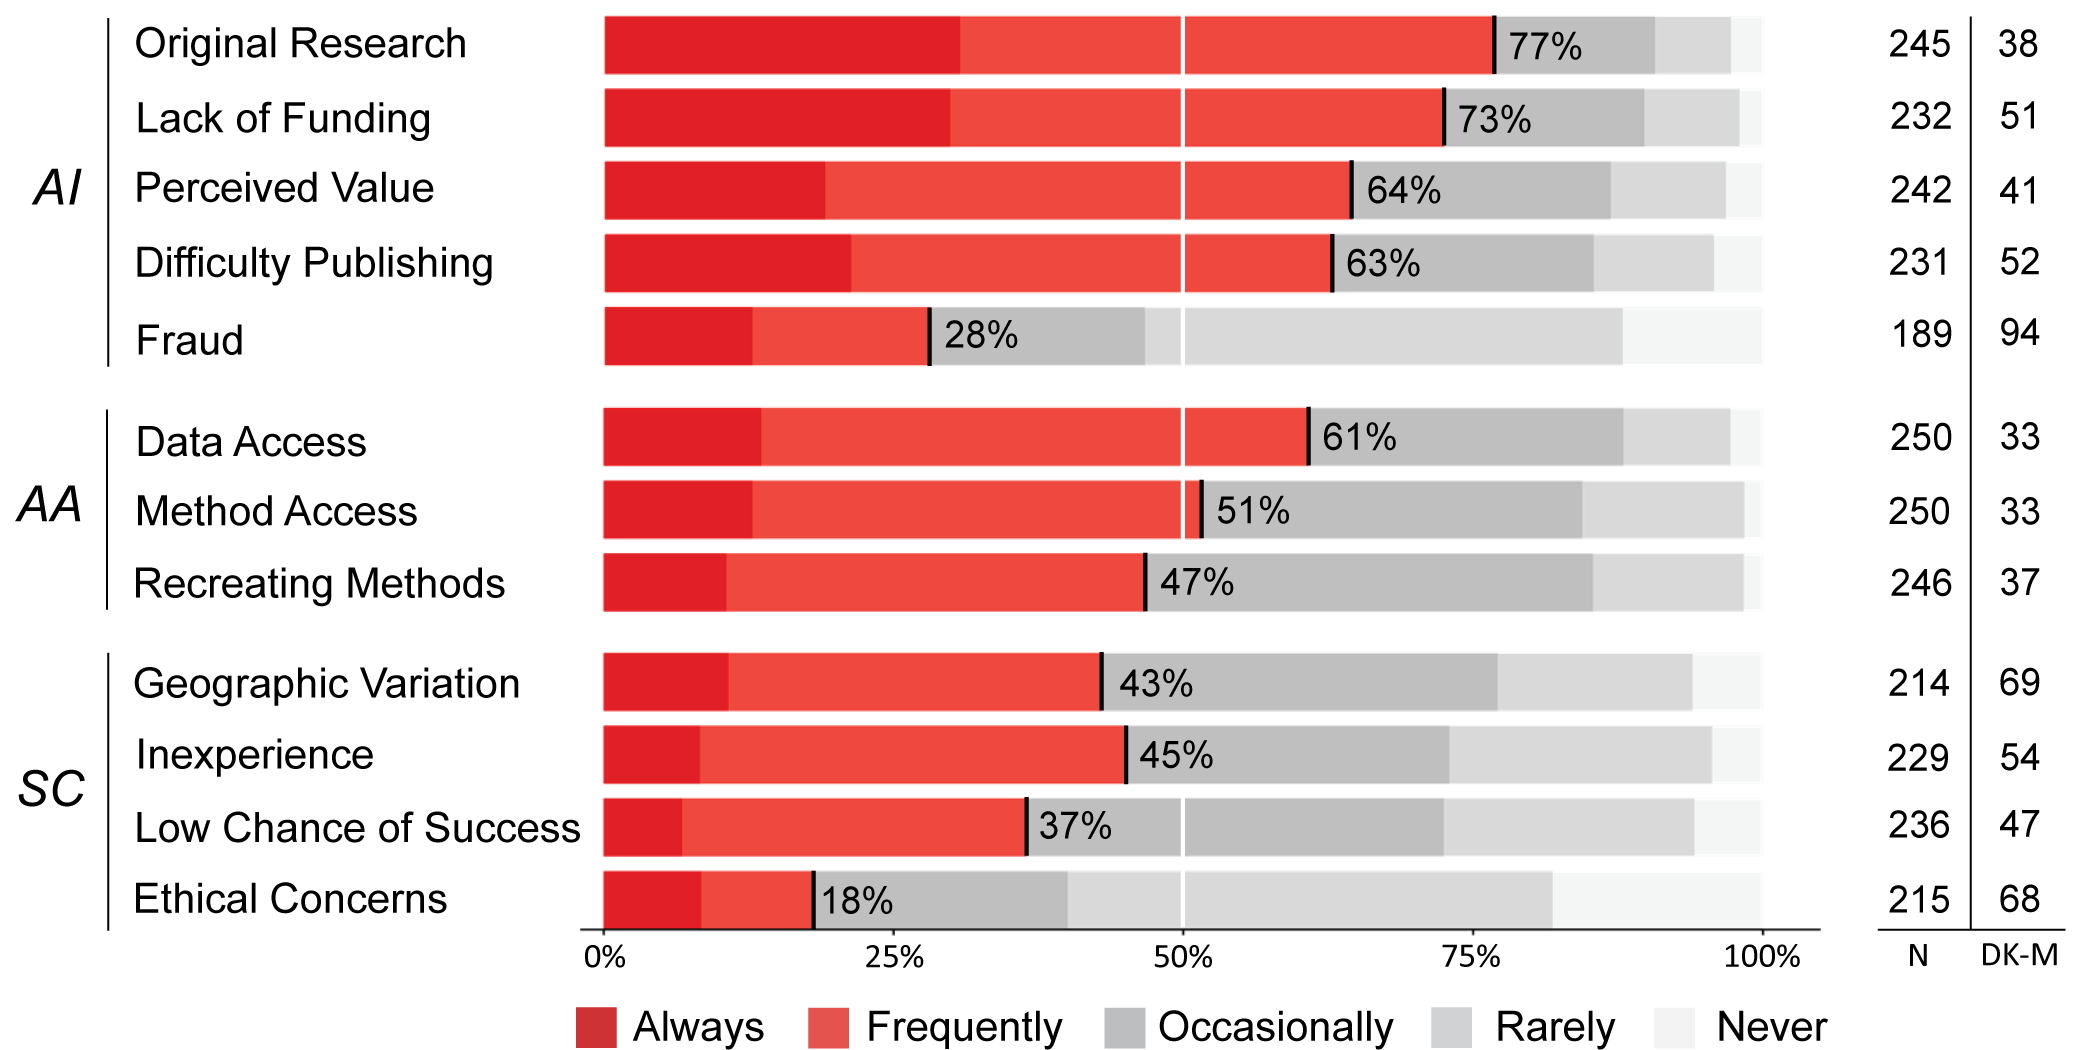
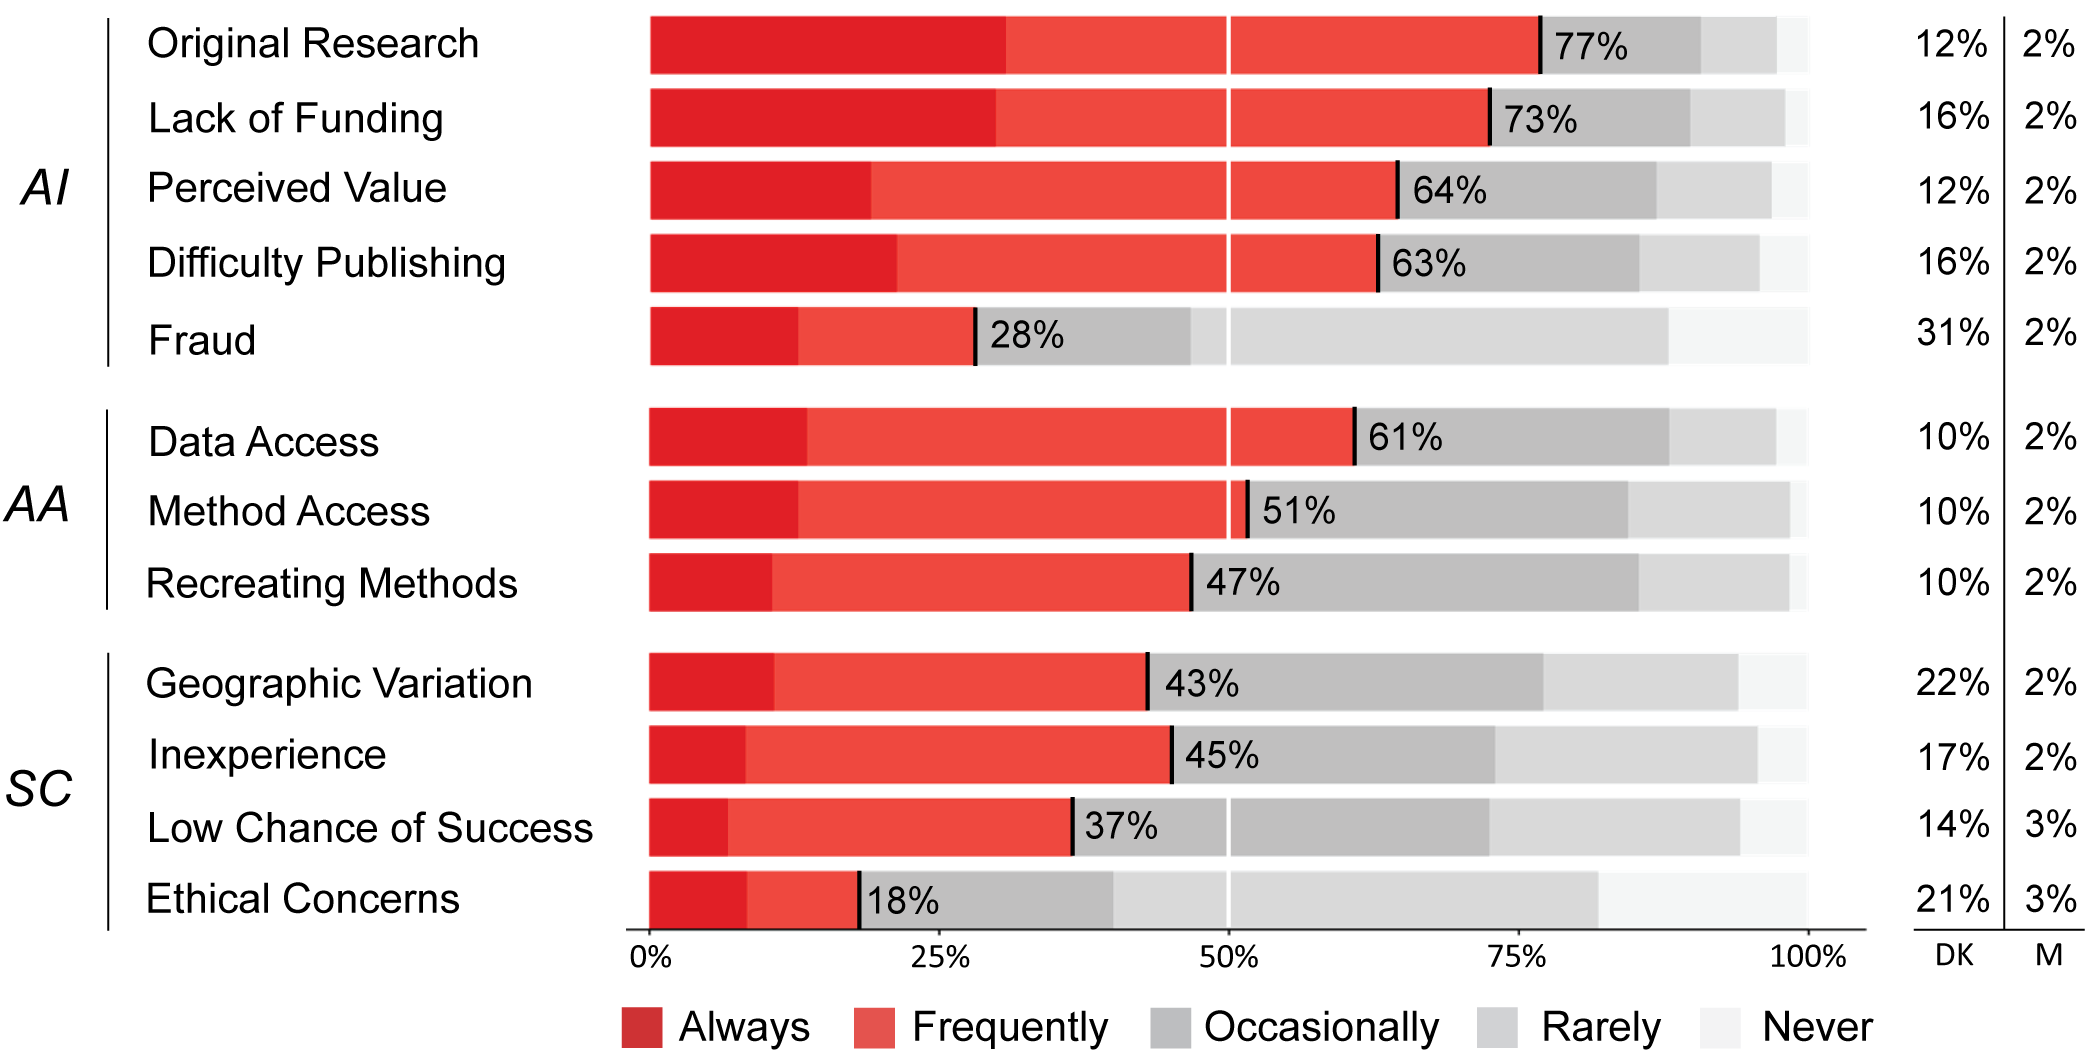
Update figs, correct in-text percent, results additions

diff --git a/docs/manuscript/manuscript.tex b/docs/manuscript/manuscript.tex
@@ -185,7 +185,7 @@ A majority of respondents believe replications can serve epistemic functions.
 \end{itemize}
 
 %%%%%%%%%%%%%%%%%%%%%%%%
-\subsection*{Replication - Chances and motivations}
+\subsection*{Factors Affecting the Chances of Replicating a Prior Study}
 Overall respondents believe that the majority of research in the discipline has not been independently replicated and appear to be uncertain about what proportion of the literature could or should be replicated (Figure \ref{fig:Q12-HCS}). 
 On average, respondents estimated that 25 percent of recent studies in their sub-field have be replicated. 
 However, the distribution of these responses is strongly right skewed.
@@ -200,28 +200,32 @@ respondents were uncertain whether it was possible or valuable to replicate rece
 
 Respondents identified a range of factors that might impact the chances of an independent researcher replicating the claims of a prior study (Figure \ref{fig:Q8-10-Chances}a).
 A majority of respondents identified the transparency and availability of the components of a study as affecting the odds of replication. 
-Poor documentation of the original study (75\%) and the use of restricted access data (68\%) were seen by the greatest number of respondents as decreasing the odds of replication. 
+Poor documentation of the original study (74.9\%) and the use of restricted access data (66.1\%) were seen by the greatest number of respondents as decreasing the odds of being able to replicate a prior result. 
 Some respondents identified the inclusion of multiple sites in a study as increasing the chances of an independent replication of the findings of that study, but not in great enough numbers to constitute a majority. 
 
 The characteristics of the research team that conducted the original study were generally not identified by respondents as likely to change the changes of replicating that study. 
-Respondents were nearly evenly split as to whether a large research team working on a study increased of decreased the chances of replicating that study. 
+The majority of respondents (51.2\%) indicated that a large research team working on the prior study would have no effect on the chances of an independent researcher replicating that work. 
+The remaining respondents were nearly evenly split as to whether a large team would increase of decrease the chances of replicating that study. 
 On the whole, more respondents believed that reliance on the unique expertise of the research team conducting a study, or the position adopted by that team would decrease, rather than increase, the chances of replicating the claims of a study.
-However, only 54 percent of respondents thought the position a research team chose to adopt when conducting study would decrease the chances of replicating that study. 
-Similarly, 49 percent of respondents identified reliance on the unique expertise of the original researcher team as decreasing the odds of replicating a study. 
+However, only 53.4 percent of respondents thought the position a research team chose to adopt when conducting study would decrease the chances of replicating that study. 
+Similarly, 48.8 percent of respondents identified reliance on the unique expertise of the original researcher team as decreasing the odds of replicating a study. 
+In both cases, 24 percent of respondents reported that they did not believe either factor would impact the odds of replicating a prior result.
 
+Respondents were similarly divided about the extend to which the approach adopted in the prior study would affect the chances of replicating that study. 
+Respondents were nearly evenly split as to whether the number of hypotheses tested by a study, and whether that study used qualitative or mixed methods would increase or decrease an independent researcher's chances of finding results that supported the claims of the prior study.
+About a quarter of respondents said that use of a mixed methods approach or the testing of multiple hypotheses had no effect on the chances of replication.
+In contrast, a large majority (80.6\%) of respondents identified the use of quantitative methods in a prior study as increasing the chances of replicating that study. 
+This result matches the association observed in respondent definitions of replication, which ties replication to positivist science and quantitative approaches to knowledge creation.   
+
+\begin{itemize}
+    \item Minimal variation in responses across method groups or sub-fields. 
+\end{itemize}
 
 \vspace{5mm}
 
-
-Researcher identified more study characteristics than phenomena characteristics, which may indicate they they are thinking of this through the lens of artifact availability from the prior study and not the nature of the phenomena. 
-A small but notable percentage of researchers indicated that they simply did not know whether a factor would affect chances of replication. 
-
-
-Only a subset of study characteristics were consistently identified by geographic researchers as altering the chances of replicating the claims of a prior study.
-\begin{itemize}
-    \item Agreement that quantitative studies are more likely to be replicable (80.6\%)
-    \item Minimal variation in responses across method groups or sub-fields. 
-\end{itemize}
+\begin{center}
+\textbf{Insert Figure \ref{fig:Q8-10-Chances} About Here}
+\end{center}
 
 Phenomena
 \begin{itemize}
@@ -232,10 +236,6 @@ Phenomena
     \item Really even distribution on nearly a phenomenon characteristics. Also a decently high percentage of i don't know resposnes for each characteristic. In most cases in the 10-20 percent range. 
 \end{itemize}
 
-
-\begin{center}
-\textbf{Insert Figure \ref{fig:Q8-10-Chances} About Here}
-\end{center}
 
 %%%%%%%%%%%%%%%%%%%%%%%%
 \subsection*{Factors that Affect the Decision to Attempt Replications}
@@ -248,31 +248,38 @@ Response characteristics for each factor are recorded at the right of the figure
 \end{center}
 
 Geographic researchers identified current academic incentives as the factor most frequently impacting the decision to attempt a replication study. 
-A majority of respondents identified the pressure to publish original research (77\%) and the lack of funding for replication studies (73\%) as frequently or always impacting the decision to attempt a replication.
-Respondents also believed that the perception of replications as low value work (64\%) that was often difficult to publish (63\%) also impacted decision making.  
+A majority of respondents identified the pressure to publish original research (66\%) and the lack of funding for replication studies (59\%) as frequently or always impacting the decision to attempt a replication.
+Respondents also believed that the perception of replications as low value work (55\%) that was often difficult to publish (51\%) also impacted decision making.  
 Contrary to some narratives in the replication literature, the desire to identify fabricated data or results was not seen as a determining factor in the decision to attempt a replication. 
 However, this finding should be interpreted with caution as a third of respondents indicated that they did not know whether potential fabrication influenced researcher decision making.  
 
 Respondents also identified the availability of research artifacts as important to the decision to attempt a replication study.
-Respondents believe that difficulty accessing and recreating data (61\%) frequently or always affects the replication decision.
-Similarly, a slight majority of respondents (51\%) identified the accessibility of procedural and methodological information as a influential factor. 
-The challenge of recreating the methods of a prior study elicited a similar response (47\%).
+Respondents believe that difficulty accessing and recreating data (54\%) frequently or always affects the replication decision.
+Similarly, respondents (45\%) identified the accessibility of procedural and methodological information as a influential factor. 
+The challenge of recreating the methods of a prior study elicited a similar response (41\%).
 
 No characteristics of the original study, or the potential replication attempt, were identified by a majority of researchers as frequently or always impacting the replication decision. 
-However, a near majority of respondents did identify potential geographic variation in the phenomena being investigated (43\%) and inexperience conducting replication studies (45\%) as influencing decisions to attempt replications. 
-Respondents did not see a low chance of successfully replicating a study as a deterrent to attempting a replication, but it is unclear whether this result is driven by a belief in the value of null replication results, or the belief that replications in fact have high chances of success.
+However, some respondents did identify inexperience conducting replication studies (37\%) and potential geographic variation in the phenomena being investigated (33\%) as always or frequently influencing decisions to attempt replications. 
+Moreover, many respondents also saw these factors as occasionally affecting the decision to attempt a replication.
+Few respondents see a low chance of successfully replicating a study as a deterrent to attempting a replication, but it is unclear whether this result is driven by a belief in the value of null replication results, or the belief that replications in fact have high chances of success.
 Finally, respondents did not identify ethical concerns as a factor affecting the decision to attempt a replication study. 
+However, several of these results should also be interpreted with caution. 
+More that 15 percent of respondents replied that they did not know whether geographic variation, inexperience with replication, or ethical concerns would affect a researcher's decision to attempt a replication. 
 
 Respondents identified a number of factors that were omitted from our survey instrument as important when deciding whether to attempt a replication of a geographic study. 
 These factors include practical issues such as the difficulty identifying and accessing new field sites where data would be collected during a replication attempt, the costs of conducting a replication, and the time needed to obtain institutional approvals.
-Respondents also identified uncertainty about how to compare the results of a replication attempt to the original as important to the replication decision.. 
-Finally, a small number of respondents believe that geographic researchers do not undertake replication studies because those researchers either believe replication is not possible or not necessary in geography. 
+Respondents also identified uncertainty about how to compare the results of a replication attempt to the original as important when deciding to undertake a replication attempt. 
+Finally, a small number of respondents believe that geographic researchers do not undertake replication studies because they either believe that replication is not possible or not necessary in geography. 
 These respondents argued that the main value of geographic studies is that each study provide a unique lens on the portion of the world under investigation, which makes replication a unnecessary endeavour.   
 
 Respondents from different disciplinary sub-fields and methodological approaches varied little in their identification of the factors affecting researchers' decisions to attempt replication studies. 
 Human geographers and researchers using quantitative methods less frequently identified academic incentives as important to the replication decision when compared to other sub-groups, but were otherwise broadly similar in their views on artifact availability and study characteristics. 
 A greater percentage of quantitative researchers and those working in the areas of GIScience and Methods identified the accessibility of data and methodological information as more often impacting the decision to replicate, but not at a level that was substantially higher than other sub-groups. 
 In fact, a greater percentage of researchers studying nature and society identified data accessibility as important than did methods researchers.  
+
+\begin{center}
+\textbf{Insert Table \ref{tab:motivations} About Here}
+\end{center}
 
 Overall, the differences we observed across sub-groups was small and should be interpreted with caution given the sub-group sample sizes.
 We also found that human geographers and qualitative researchers were disproportionately likely to provide 'I do not know' responses across questions,  
@@ -336,8 +343,8 @@ This material is based on work supported by the National Science Foundation unde
          Inability to recreate procedure    & 38.1\% & 46.9\% & 40.4\% & 39.4\% & & 47.8\% & 36.3\% & 38.3\% & & 40.6\% & 246 & 37 \\
                                             & & & & & & & & & & & & \\
          \textit{Study/Researcher Characteristics}     & & & & & & & & & & & & \\
-         Geographic variation               & 35.3\% & 32.7\% & 33.3\% & 27.7\% & & 31.4\% & 35.3\% & 36.4\% & & 32.5\% & 214 & 69 \\
          Inexperience with replication      & 27.4\% & 49.0\% & 50.0\% & 32.8\% & & 38.1\% & 37.3\% & 28.2\% & & 36.4\% & 229 & 54 \\
+         Geographic variation               & 35.3\% & 32.7\% & 33.3\% & 27.7\% & & 31.4\% & 35.3\% & 36.4\% & & 32.5\% & 214 & 69 \\
          Low probability of success         & 29.2\% & 31.6\% & 31.0\% & 29.0\% & & 30.6\% & 31.4\% & 28.3\% & & 30.4\% & 236 & 47 \\
          Ethical concerns                   & 10.5\% & 12.3\% & 21.4\% & 14.4\% & & 11.2\% & 18.6\% & 10.9\% & & 14.0\% & 218 & 68 \\
                                             & & & & & & & & & & & & \\
